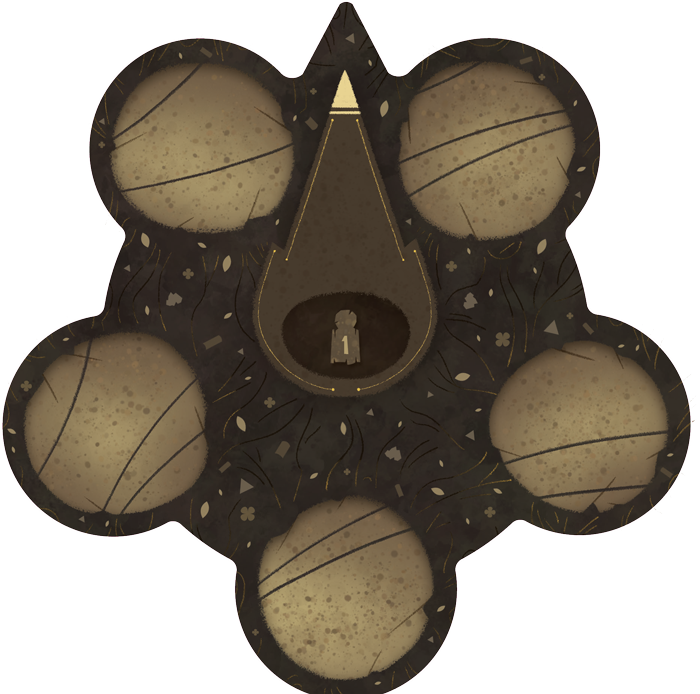
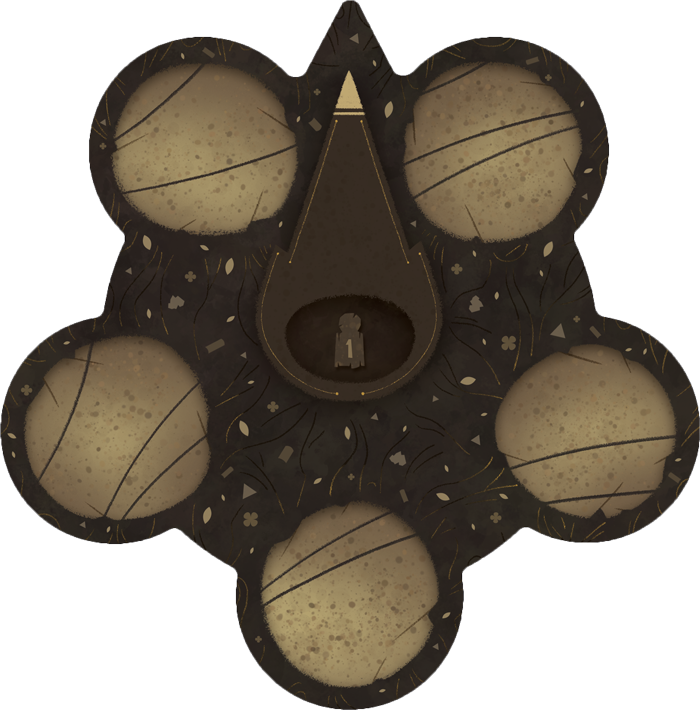
style: fix missing central board bottom

diff --git a/src/harmonies.scss b/src/harmonies.scss
@@ -106,7 +106,7 @@ html {
 .central-board {
 	background: url('img/centralBoard.png') no-repeat;
 	height: $CARD_HEIGHT;
-	aspect-ratio: 300 / 298;
+	aspect-ratio: 700/710;
 	position: relative;
 	background-size: 100%;
 	margin: 0 0px 12px 15px;
